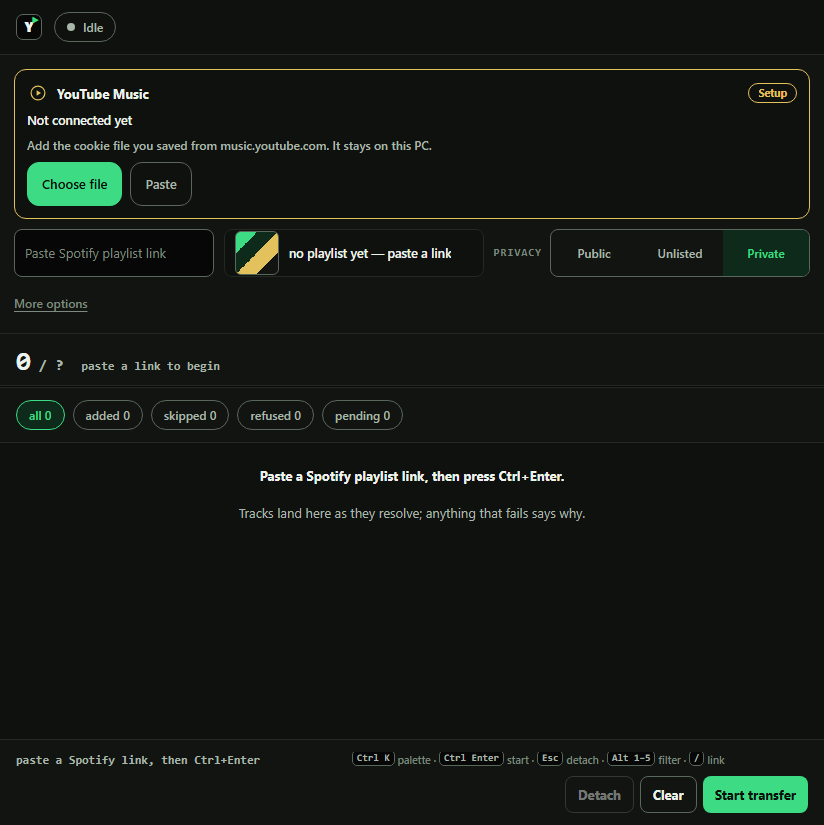
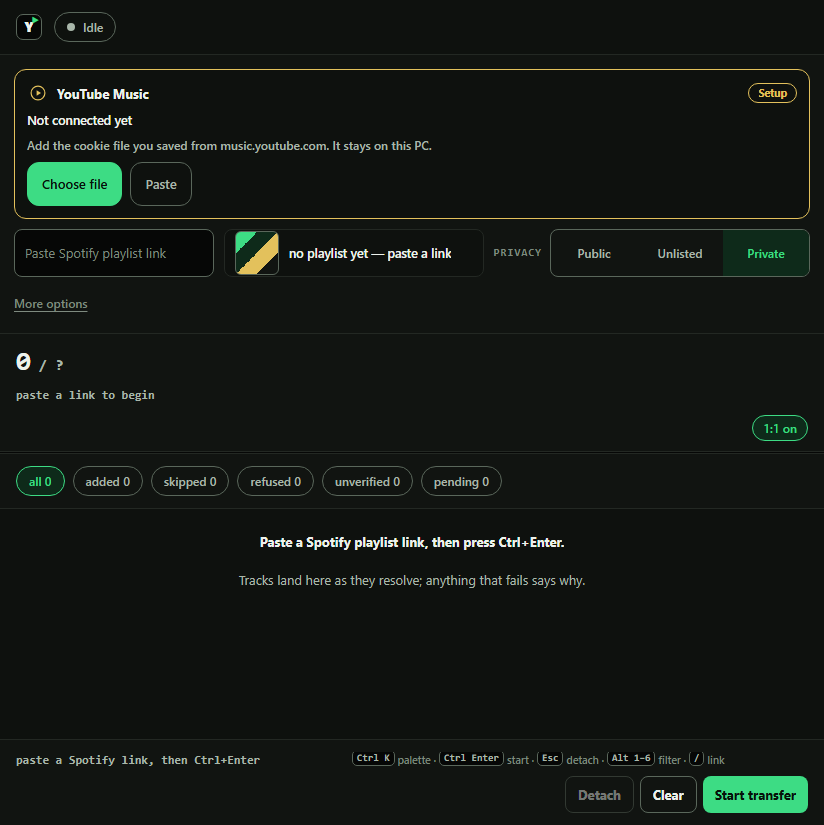
docs(assets): recapture the README shots on the 0.4.0 deck

diff --git a/README.md b/README.md
@@ -5,7 +5,7 @@
 <p align="center"><strong>Copy a public Spotify playlist into YouTube Music without an API key.</strong></p>
 
 <p align="center">
-  <img src="assets/app.png" width="520" alt="The sp2yt transfer deck with YouTube Music connected: the Connect card reads Connected and names the cookie file it uses, above an empty Spotify link field, the privacy selector and an empty track ledger." />
+  <img src="assets/app.png" width="520" alt="The sp2yt transfer deck with YouTube Music connected: the Connect card reads Connected and Your account is ready, above an empty Spotify link field, the privacy selector, the 1:1 toggle and an empty track ledger with every outcome count at zero." />
 </p>
 
 ## Install
